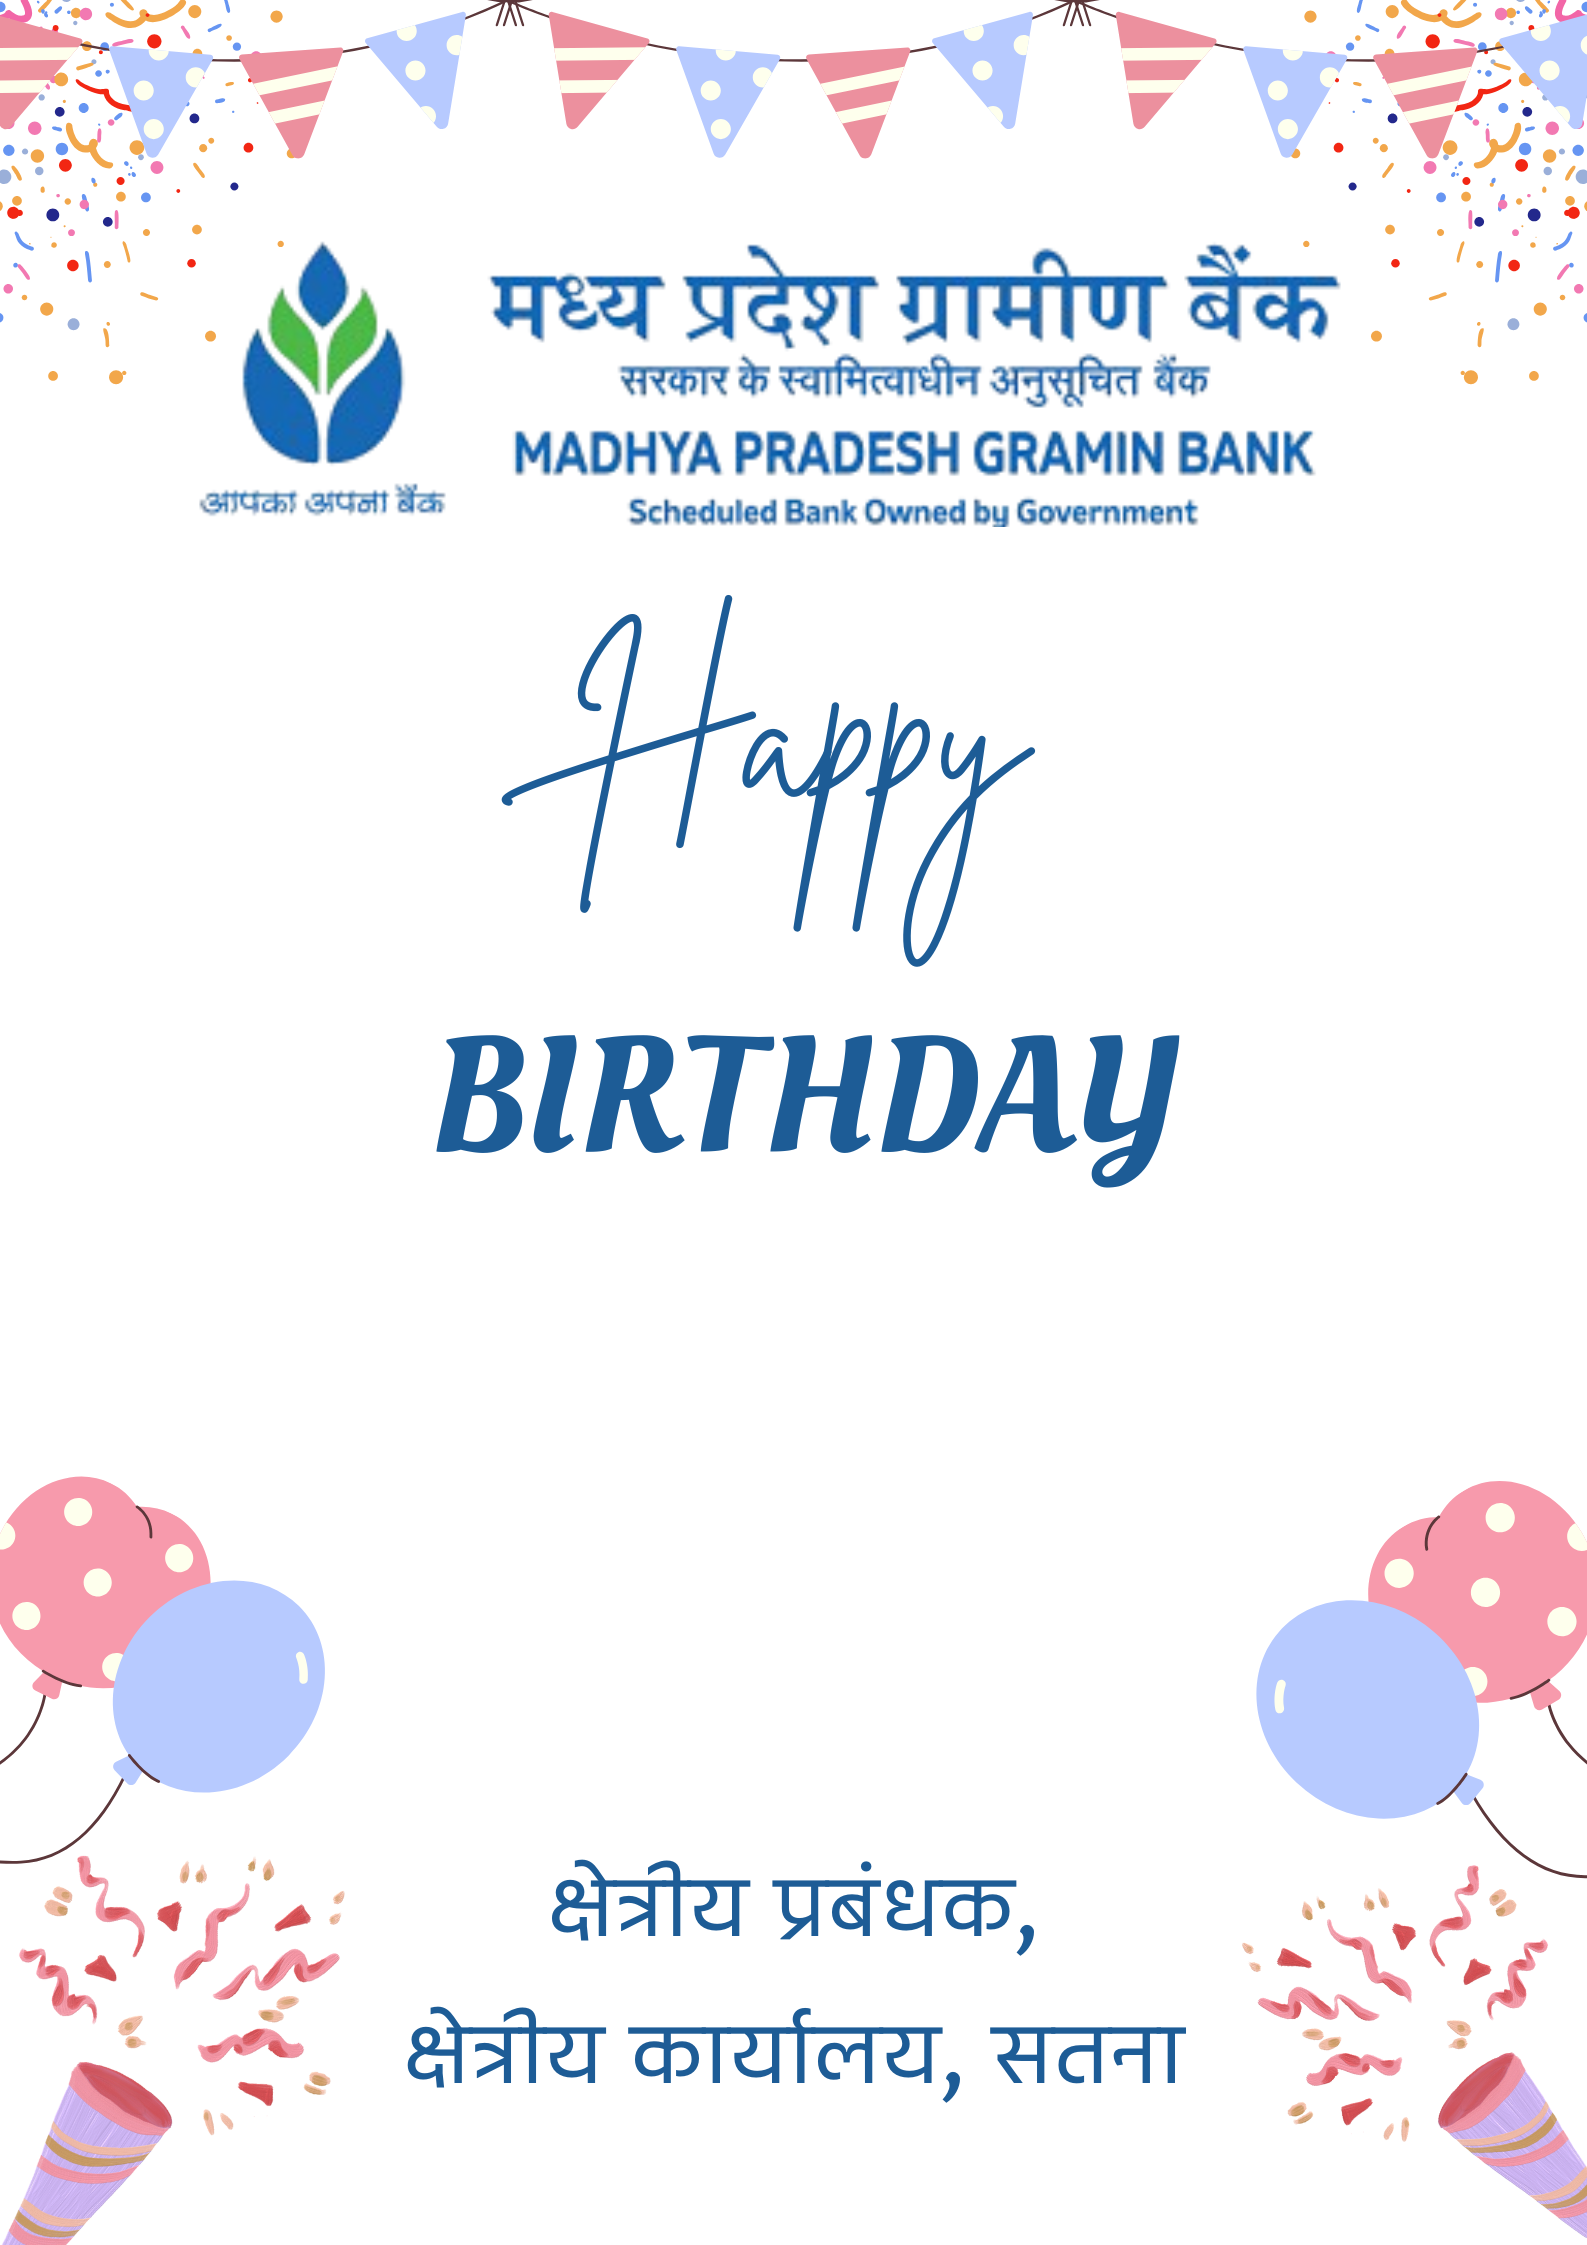
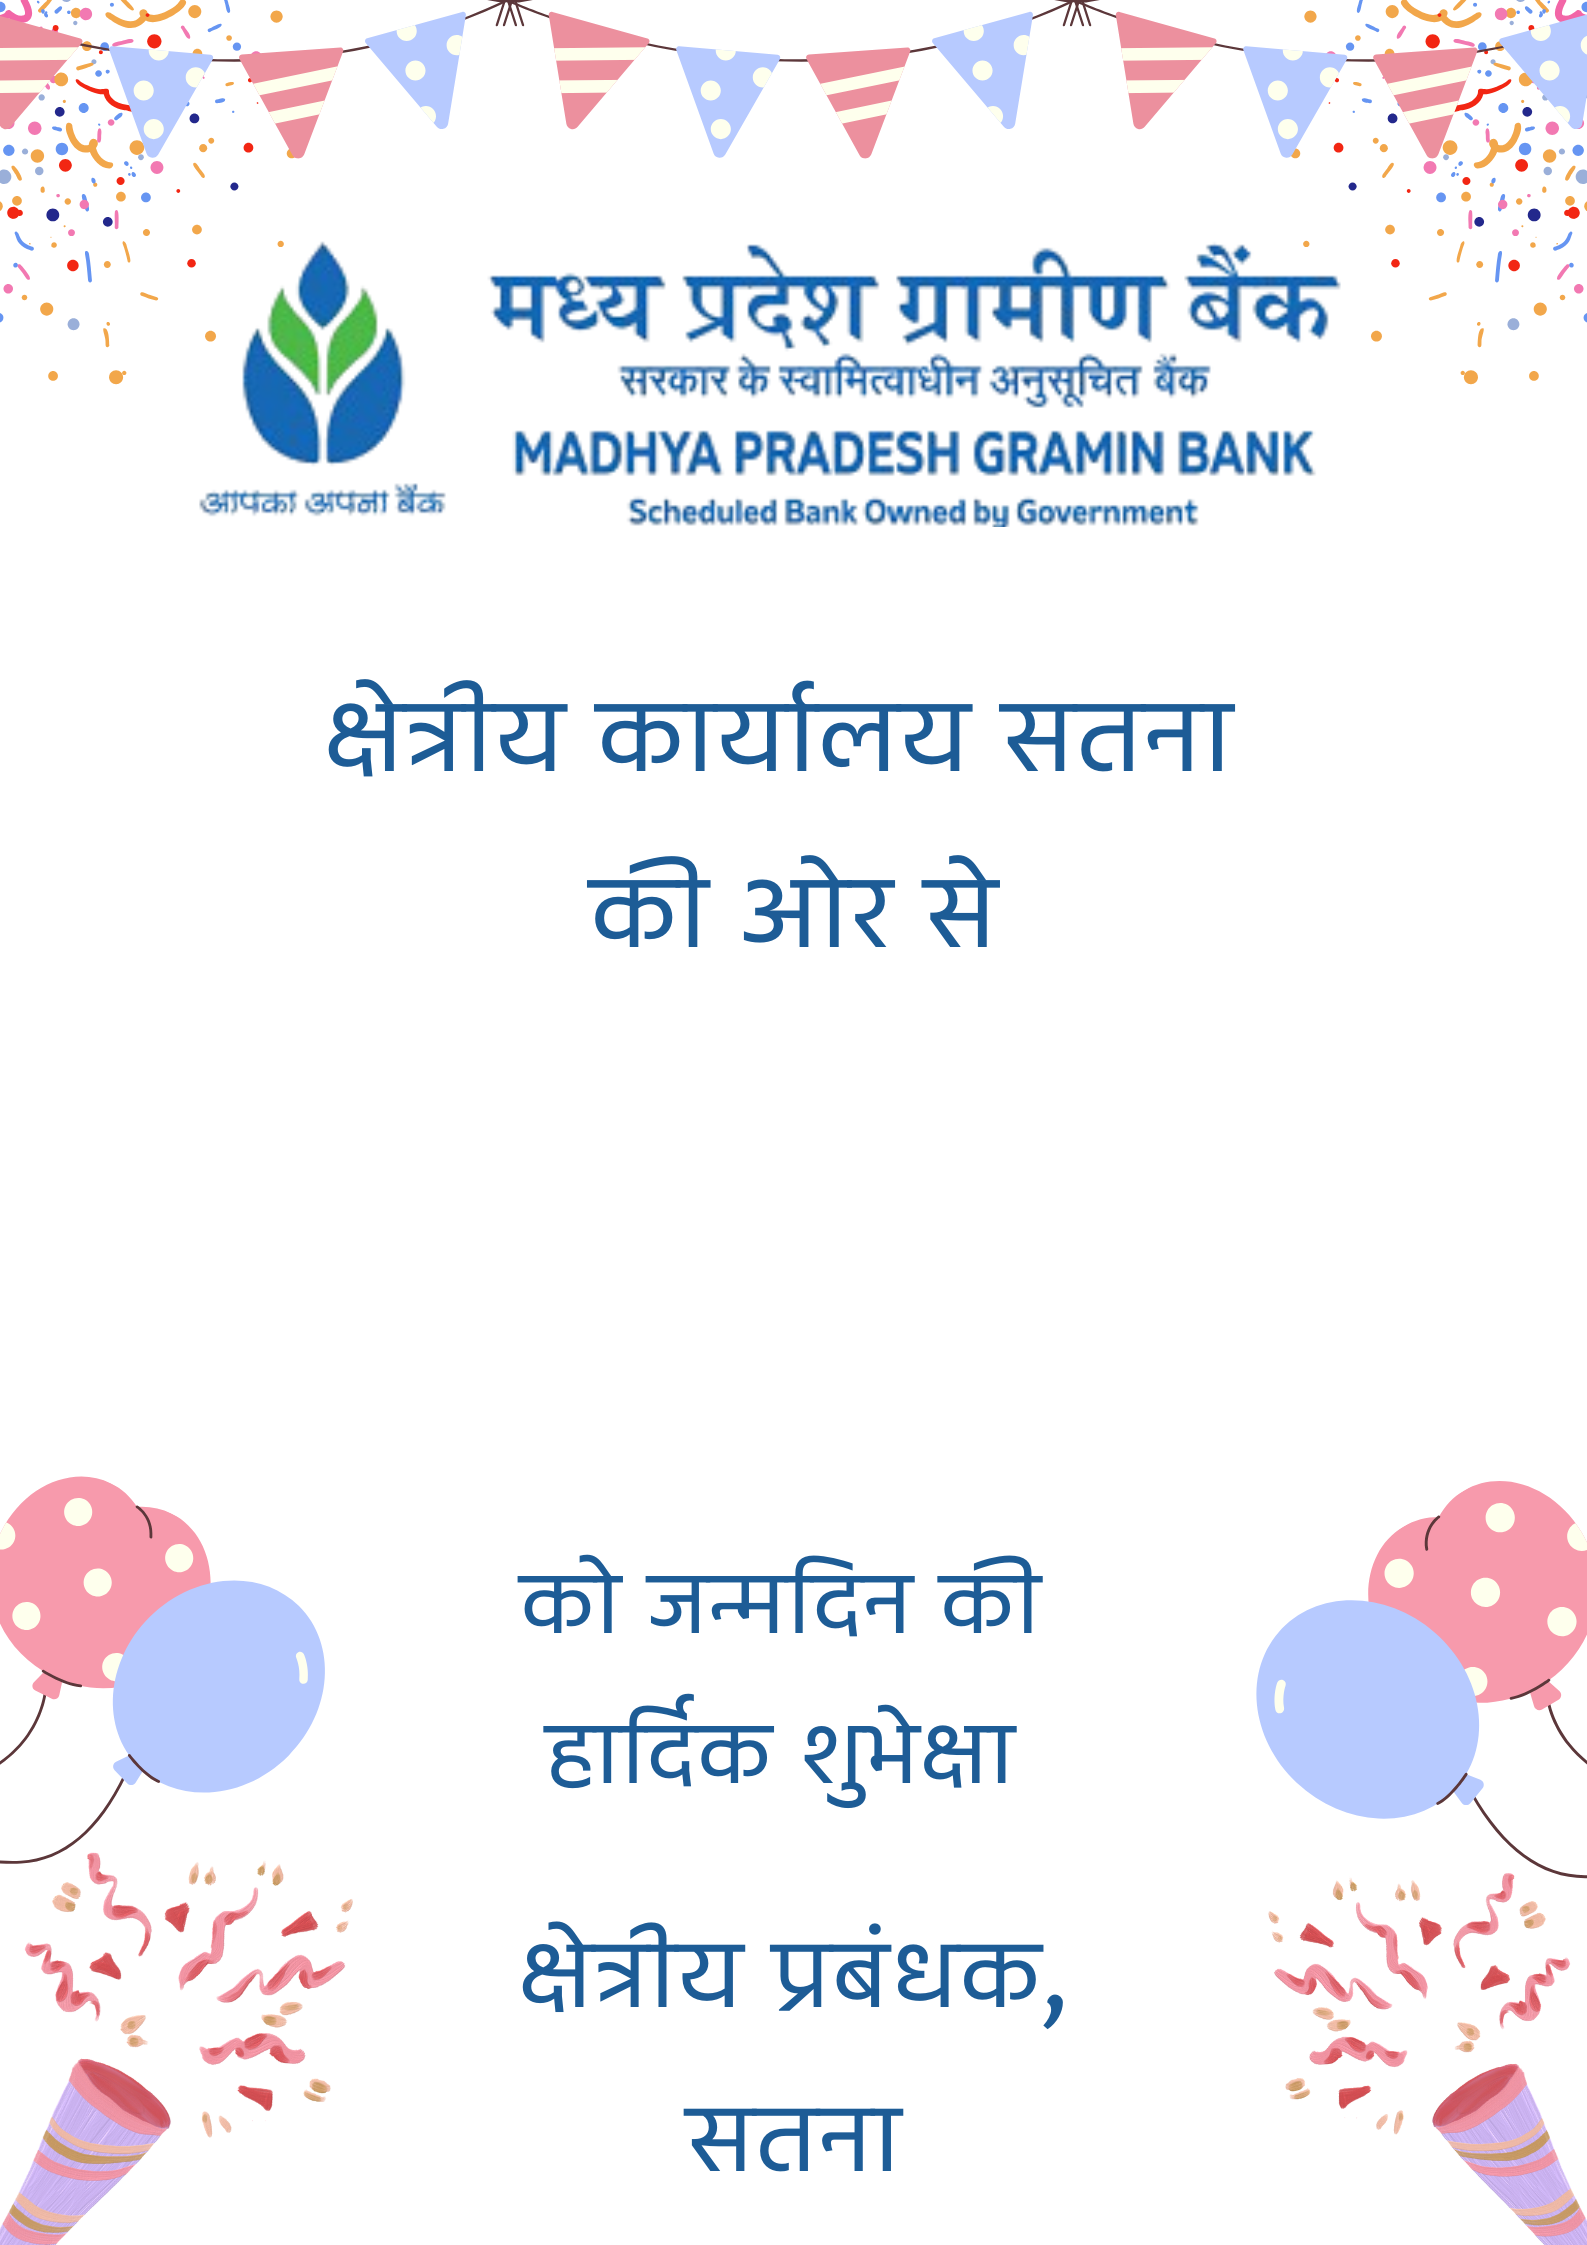
Hindi Template and shri added

diff --git a/src/App.jsx b/src/App.jsx
@@ -122,8 +122,8 @@ export default function App() {
 
   useEffect(() => {
     if (selected) {
-      setEditableName(selected.hindiName || selected._enName || '')
-      setRndState({ x:80, y: 320, width: 250, height: 80 })
+      setEditableName("श्री "+selected.hindiName || "श्री "+selected._enName || '')
+      setRndState({ x:80, y: 250, width: 250, height: 80 })
       setFontSize(46)
     }
   }, [selected])
